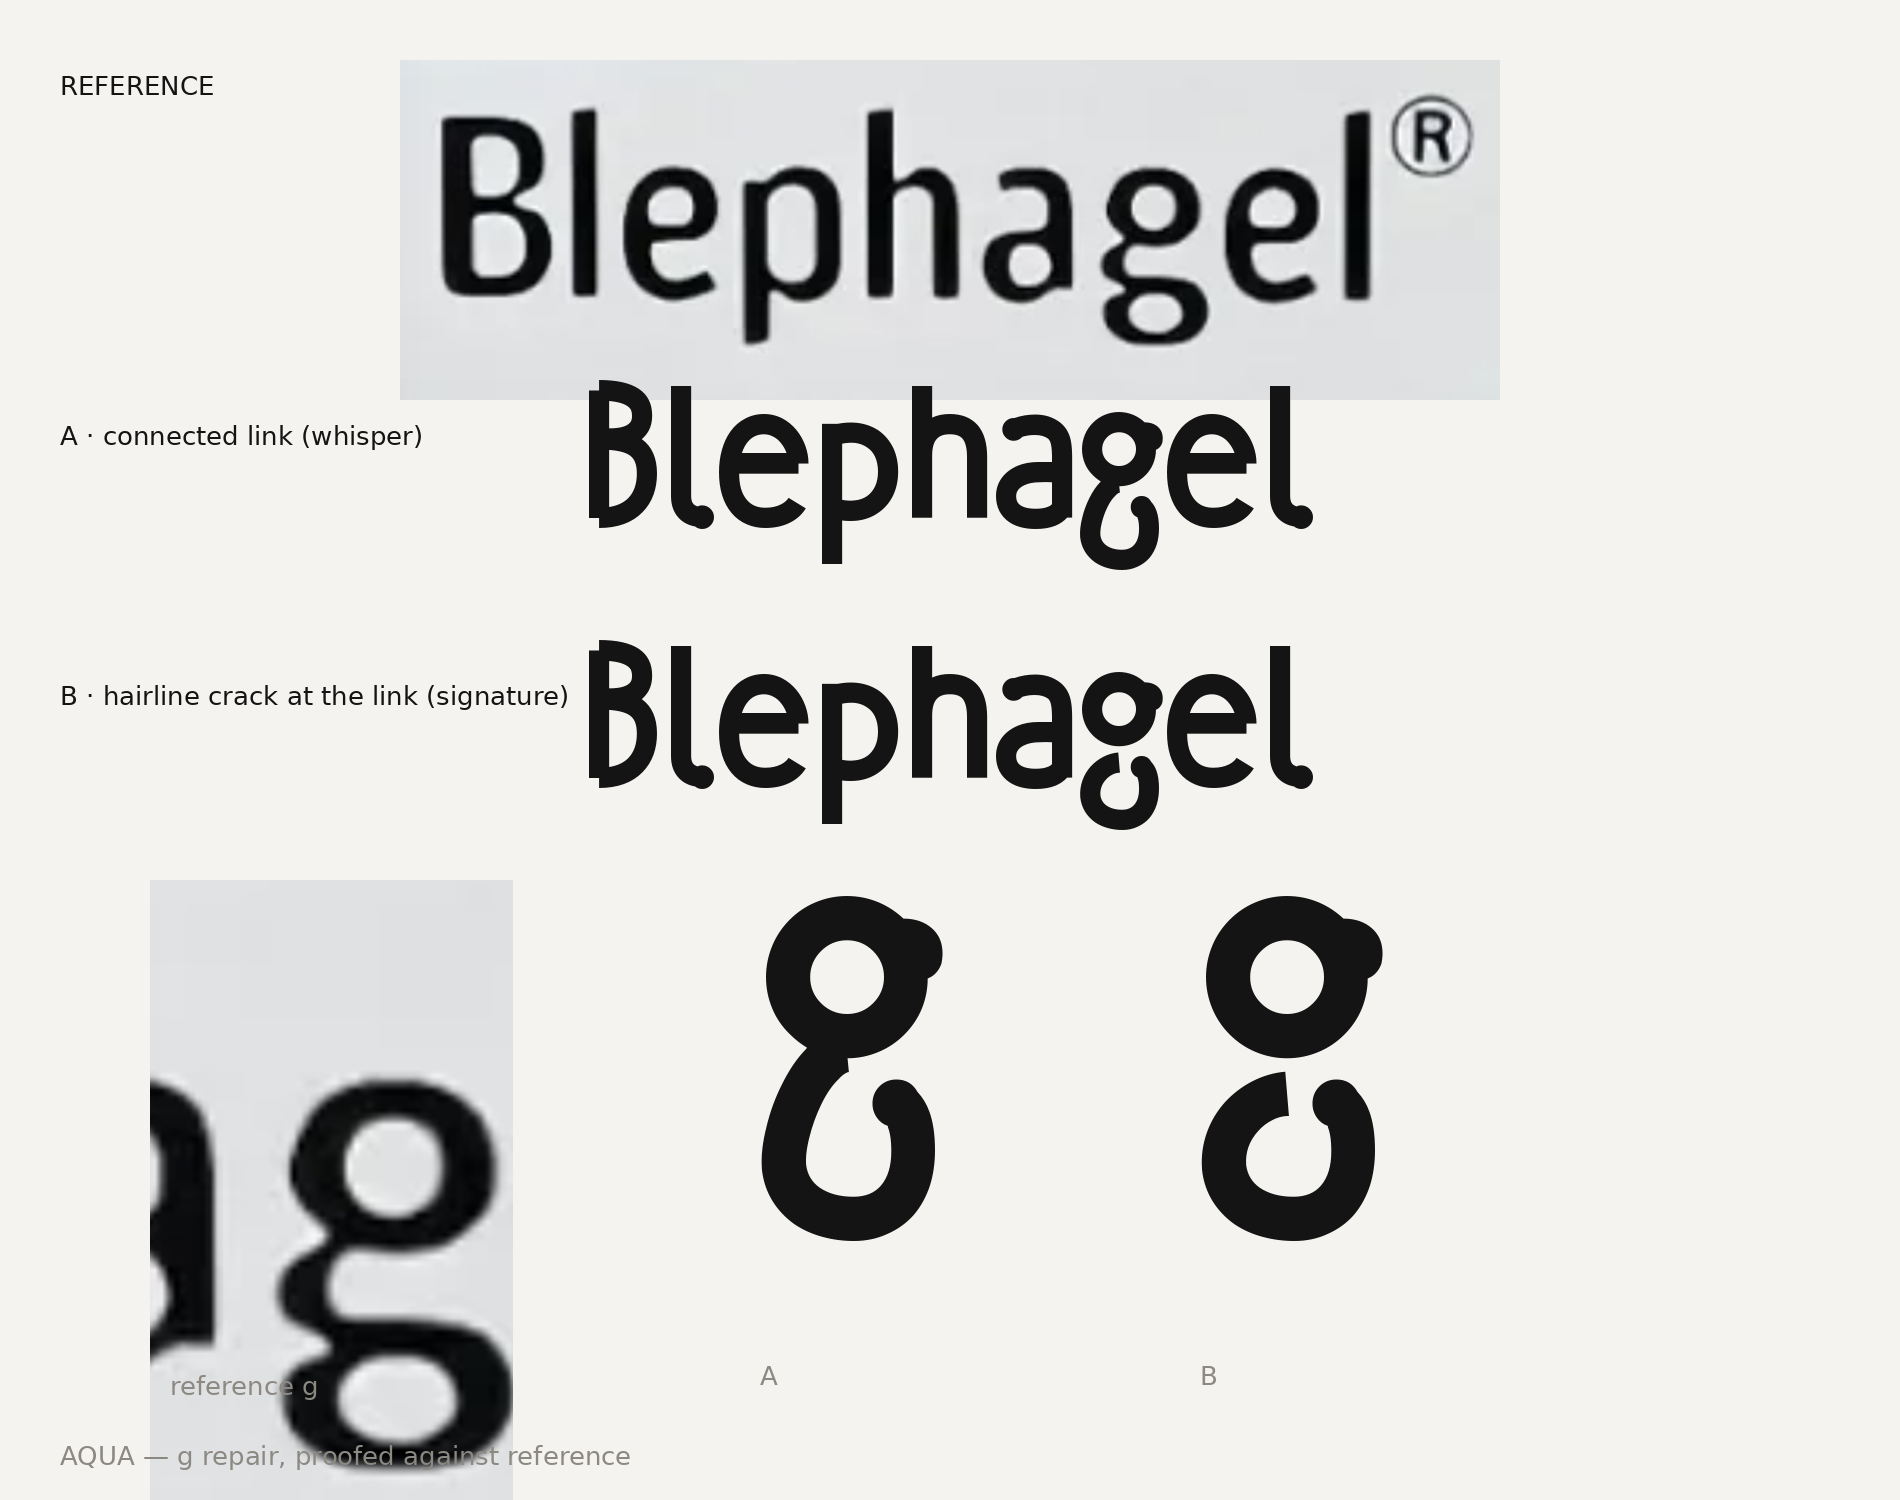
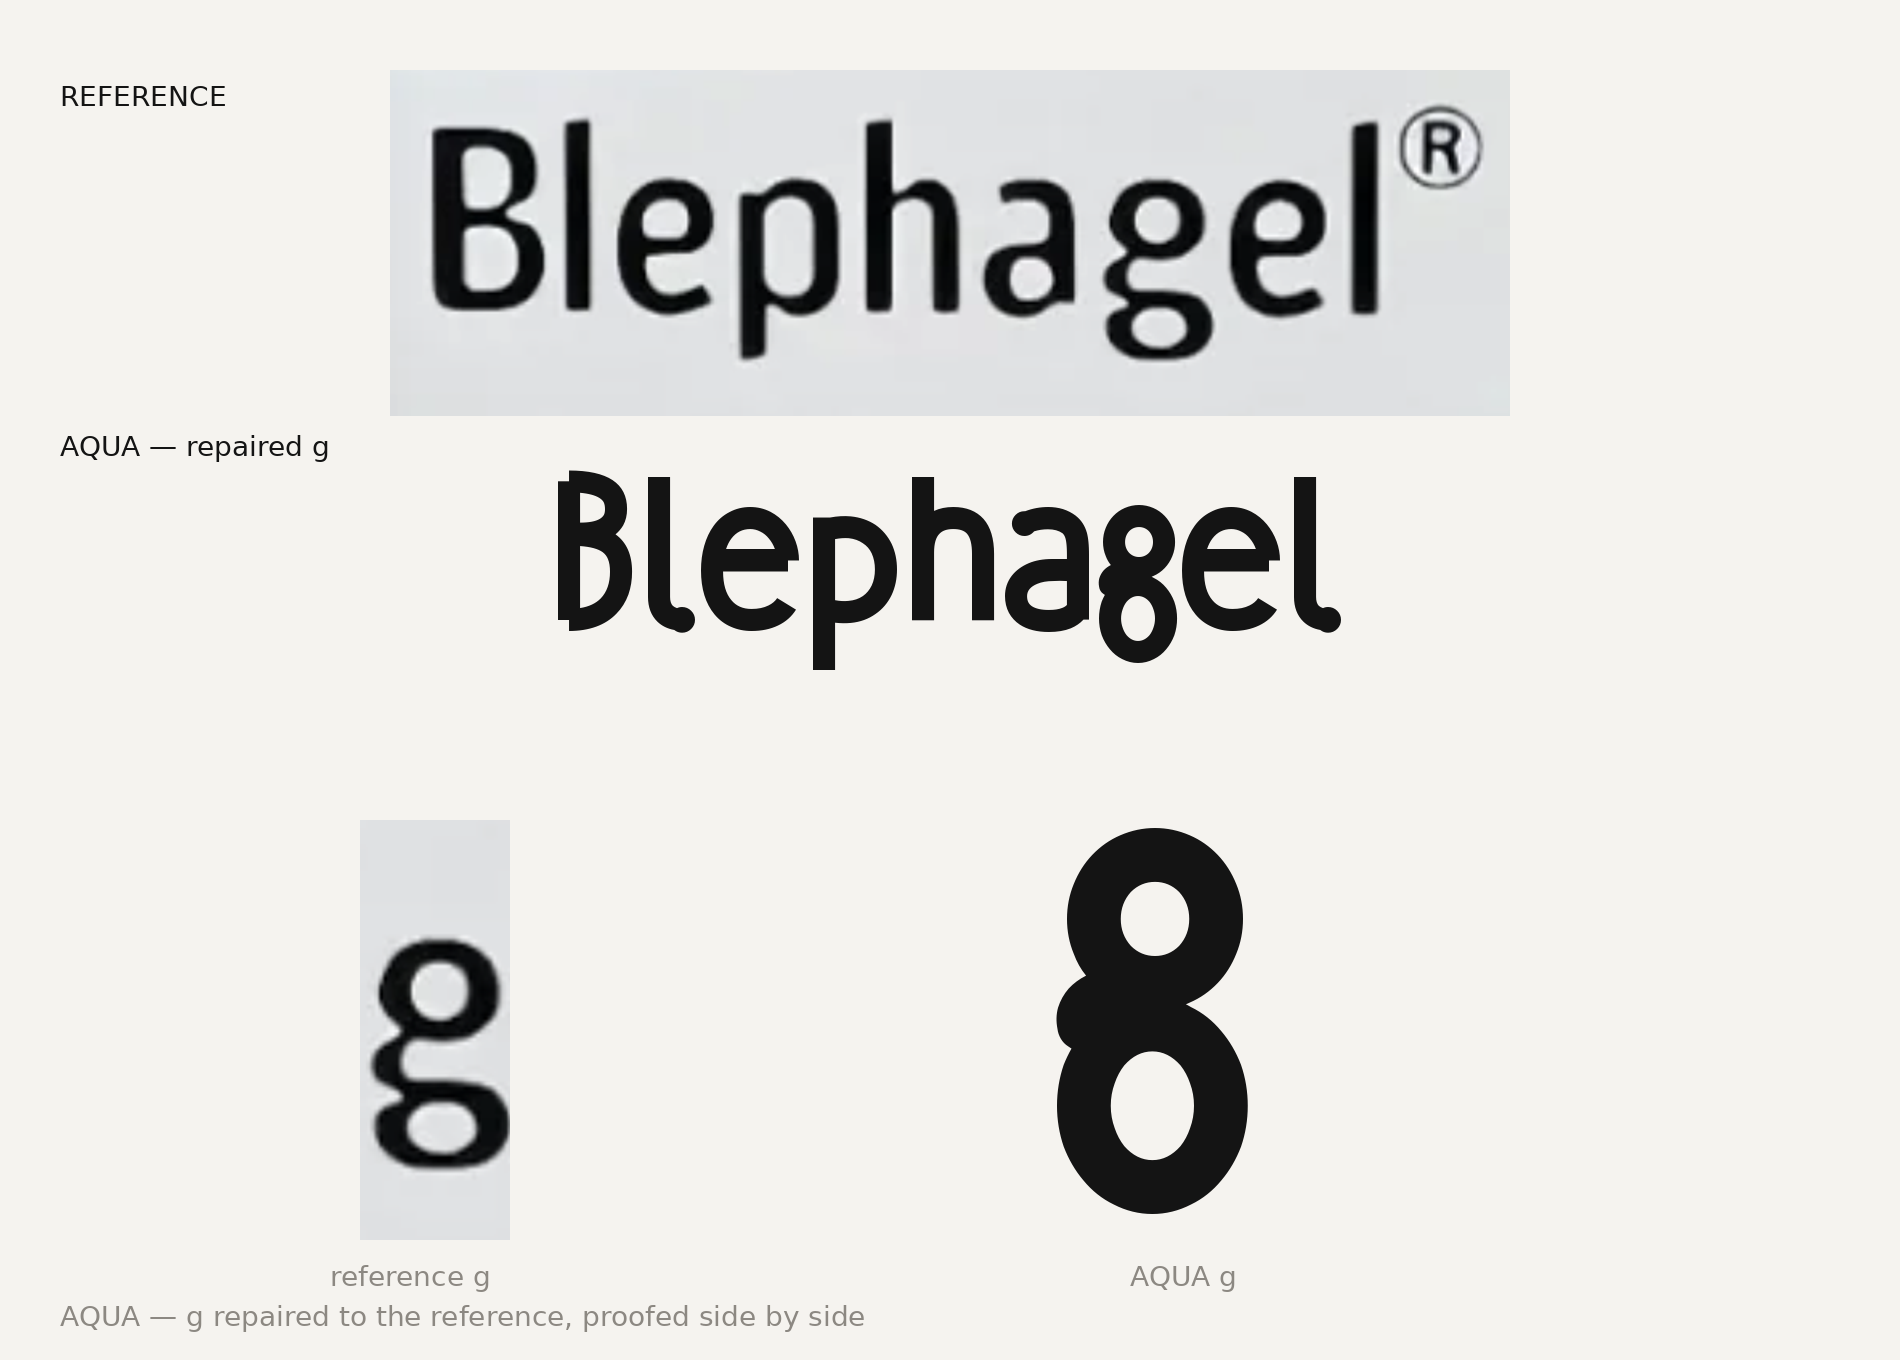
Redraw the g to the reference: connected double-storey, not liquid
Fabio rejected the previous g as far from the reference. The reference
g is a clean CONNECTED double-storey form: a smaller eye above a larger
lower loop, joined into a continuous contour on the right, pinched to a
narrow waist on the left, with a small spur off the left of the waist.
No open tail, no droplet, no crack.

Rebuild the g skeleton from the reference anatomy (verified against a
high-zoom crop). Replace the crack-variant explorer with final_g_proof.py,
which proofs the compiled g beside the reference g and in the wordmark.

Claude-Session: https://claude.ai/code/session_01AufTLR6FUSxSFH28PcLESA

diff --git a/aqua-kit/engine/aquascript.py b/aqua-kit/engine/aquascript.py
@@ -98,32 +98,31 @@ def skeletons():
              ("c", (262, 42), (308, 58), (330, 96))]),
     ]
 
-    # --- g : DOUBLE-STOREY per reference. Reads CRISP FIRST: a closed eye,
-    #         an ear tucked into the shoulder (attached, no floater), and an
-    #         open-tail lower loop sitting directly beneath the eye. The one
-    #         liquid accent is the LINK, rendered as a clean hairline crack
-    #         (the loop drops just clear of the eye) plus a soft droplet on
-    #         the tail terminal. A crack, not a disconnection.
+    # --- g : DOUBLE-STOREY, matched to the reference anatomy. Two CLOSED
+    #         bowls — a smaller eye above a larger lower loop — joined into a
+    #         continuous contour on the right and pinched to a narrow waist on
+    #         the left, with a small spur flicking off the left of the waist.
+    #         No open tail, no droplet: reads crisp, exactly like the logotype.
     g["g"] = [
-        # eye — closed upper bowl, centre (185, 372) r128
-        sub([("m", (185, 500)),
-             ("c", (255.7, 500), (313, 442.7), (313, 372)),
-             ("c", (313, 301.3), (255.7, 244), (185, 244)),
-             ("c", (114.3, 244), (57, 301.3), (57, 372)),
-             ("c", (57, 442.7), (114.3, 500), (185, 500)),
+        # eye — upper bowl, centre (185, 388), rounder & a touch larger
+        sub([("m", (185, 502)),
+             ("c", (245.77, 502), (294, 451.42), (294, 388)),
+             ("c", (294, 324.58), (245.77, 274), (185, 274)),
+             ("c", (124.23, 274), (76, 324.58), (76, 388)),
+             ("c", (76, 451.42), (124.23, 502), (185, 502)),
              ("z",)]),
-        # ear — small soft flick tucked at the top-right shoulder
-        sub([("m", (298, 448)),
-             ("c", (338, 456), (350, 438), (344, 414))],
+        # lower loop — larger bowl, centre (180, 55), overlaps the eye's
+        # lower edge to form the connected waist
+        sub([("m", (180, 200)),
+             ("c", (247.38, 200), (302, 135.08), (302, 55)),
+             ("c", (302, -25.08), (247.38, -90), (180, -90)),
+             ("c", (112.62, -90), (58, -25.08), (58, 55)),
+             ("c", (58, 135.08), (112.62, 200), (180, 200)),
+             ("z",)]),
+        # spur — small beak off the left of the waist, pointing down-left
+        sub([("m", (104, 250)),
+             ("c", (70, 244), (54, 224), (58, 200))],
             cap="round"),
-        # lower loop — open tail beneath the eye; link is a hairline crack,
-        # droplet pools at the tail terminal
-        sub([("m", (185, 120)),
-             ("c", (110, 114), (42, 46), (48, -40)),
-             ("c", (56, -114), (122, -154), (200, -152)),
-             ("c", (282, -150), (332, -92), (330, -4)),
-             ("c", (328, 52), (316, 84), (292, 98))],
-            drops=[(292, 98, H + 4)]),
     ]
 
     g["space"] = []

diff --git a/aqua-kit/engine/final_g_proof.py b/aqua-kit/engine/final_g_proof.py
@@ -1,0 +1,46 @@
+"""Reference comparison for the repaired g: reference wordmark vs AquaScript,
+plus the isolated g beside the high-zoom reference g."""
+from PIL import Image, ImageDraw, ImageFont
+
+PAPER = (245, 243, 239)
+INK = (20, 20, 20)
+FAINT = (140, 136, 130)
+TTF = "AquaScript-Regular.ttf"
+
+W, H = 1900, 1360
+img = Image.new("RGB", (W, H), PAPER)
+d = ImageDraw.Draw(img)
+lab = ImageFont.truetype("/usr/share/fonts/truetype/dejavu/DejaVuSans.ttf", 28)
+
+# reference wordmark
+ref = Image.open("../refs/the logotype-reference.png").convert("RGB")
+rw = 1120
+ref = ref.resize((rw, int(ref.height * rw / ref.width)))
+img.paste(ref, ((W - rw) // 2, 70))
+d.text((60, 80), "REFERENCE", font=lab, fill=INK)
+
+# AquaScript wordmark
+word = ImageFont.truetype(TTF, 230)
+bb = d.textbbox((0, 0), "the logotype", font=word)
+d.text(((W - (bb[2] - bb[0])) // 2 - bb[0], 470 - bb[1]), "the logotype",
+       font=word, fill=INK)
+d.text((60, 430), "AQUA — repaired g", font=lab, fill=INK)
+
+# isolated g comparison — crop the g straight from the reference wordmark
+gy = 820
+src = Image.open("../refs/the logotype-reference.png").convert("RGB")
+zoom = src.crop((int(src.width * 0.63), int(src.height * 0.05),
+                 int(src.width * 0.735), src.height))
+zs = 420 / zoom.height
+zoom = zoom.resize((int(zoom.width * zs), int(zoom.height * zs)), Image.LANCZOS)
+img.paste(zoom, (360, gy))
+d.text((330, gy + 440), "reference g", font=lab, fill=FAINT)
+
+gfont = ImageFont.truetype(TTF, 560)
+d.text((1050, gy - 120), "g", font=gfont, fill=INK)
+d.text((1130, gy + 440), "AQUA g", font=lab, fill=FAINT)
+
+d.text((60, H - 60), "AQUA — g repaired to the reference, proofed side by side",
+       font=lab, fill=FAINT)
+img.save("final_g_proof.png")
+print("saved final_g_proof.png")
